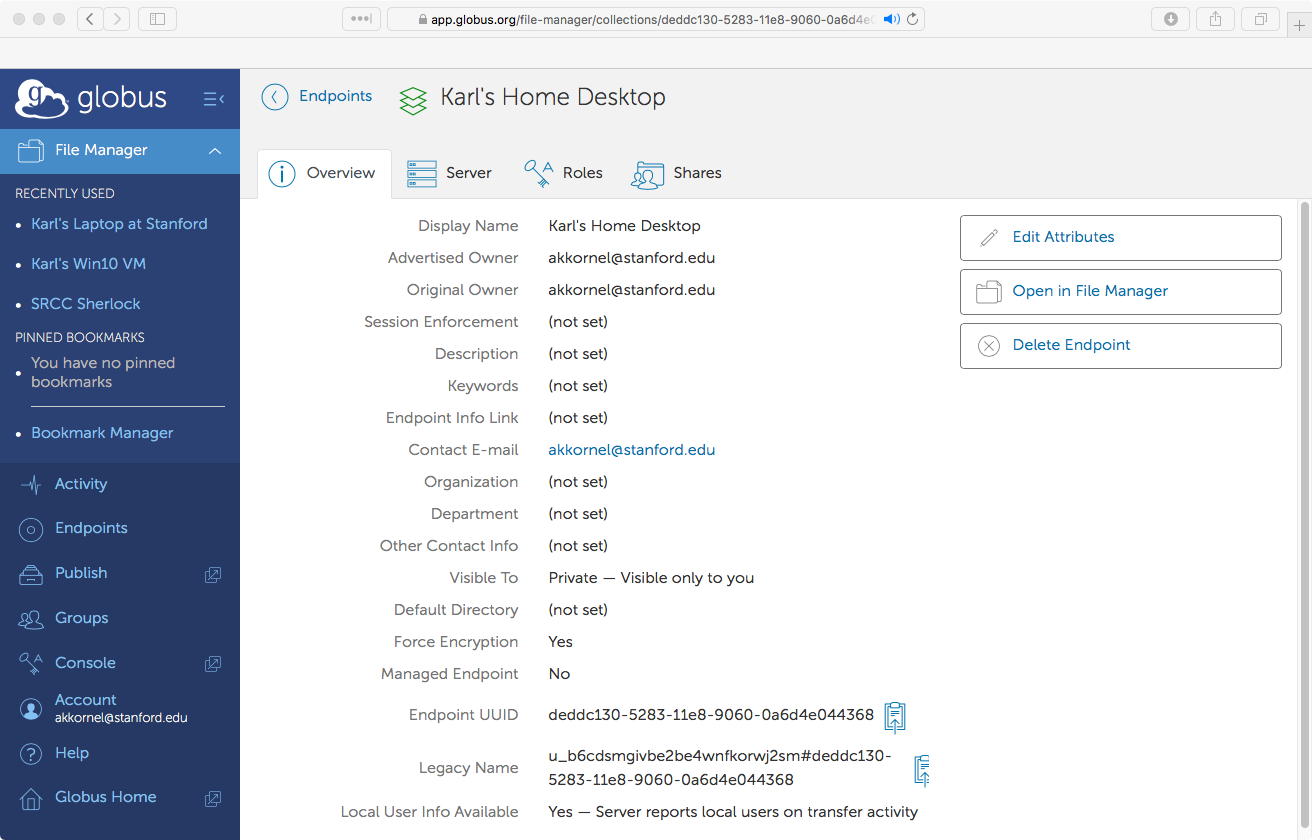
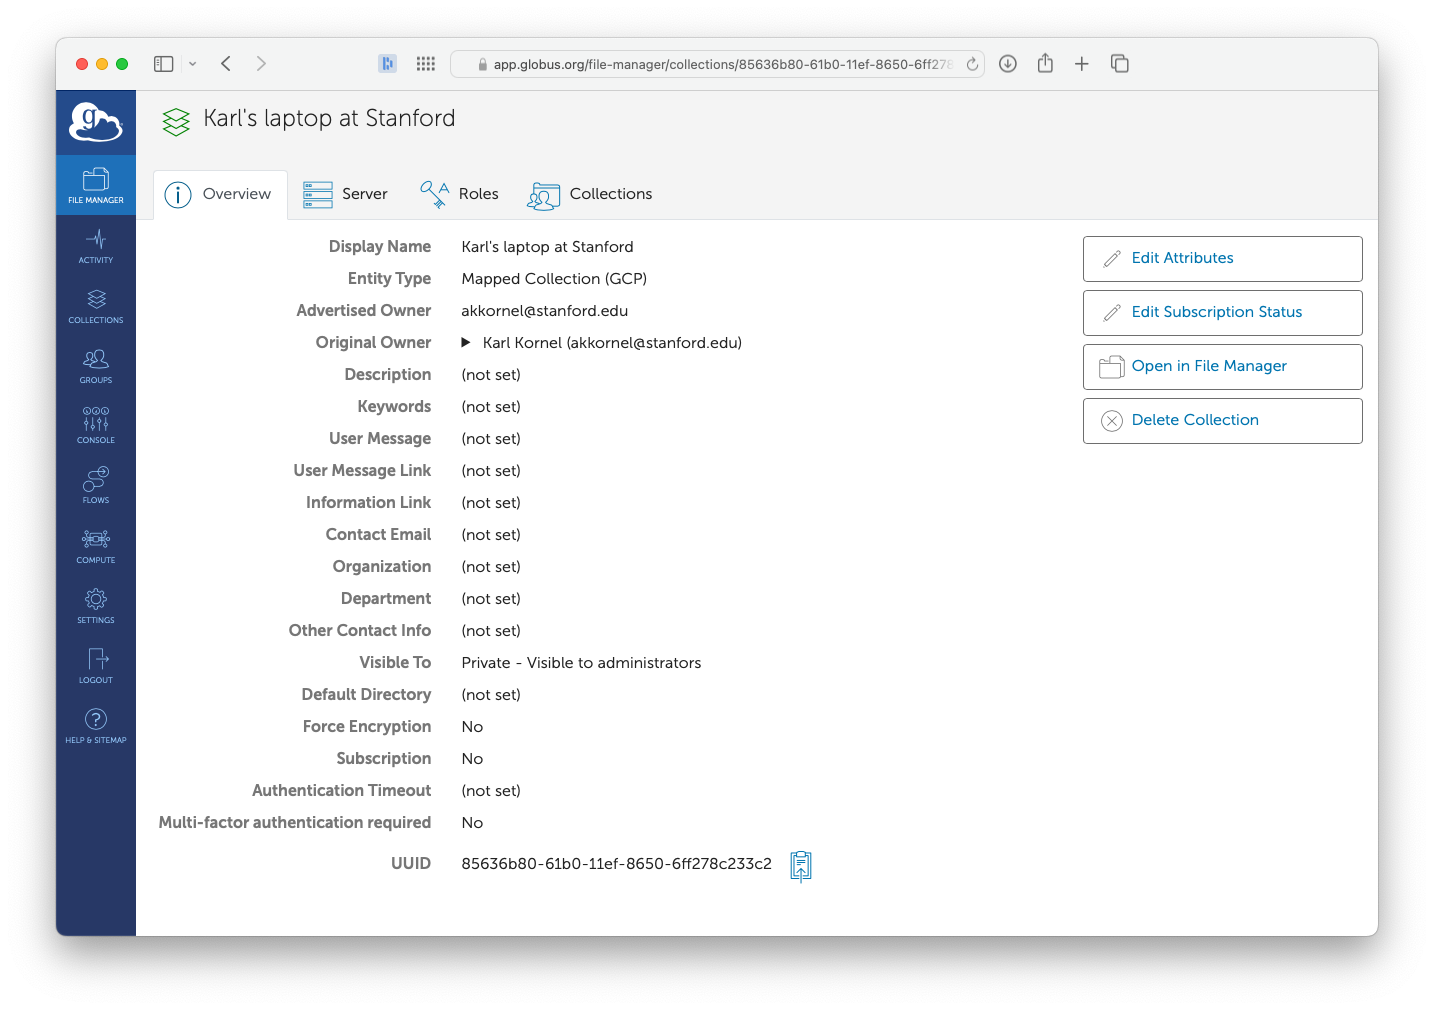
Client: New images for Globus Plus
The process for Globus Plus has had a number of small changes.  For
example, the Globus Group name has changed, and the Globus web app UI
looks different.  This updates the images, and also updates the content
accordingly.

diff --git a/client/plus.md b/client/plus.md
@@ -10,20 +10,27 @@ see-also: true
 
 If you would like to give other people access to content that is only
 accessible with Globus Connect Personal (for example, because that content
-lives on your laptop or desktop), you will need to create a _Shared endpoint_.
-In order to create a shared endpoint with Globus Connect Personal, you will
+lives on your laptop or desktop), you will need to create a _Guest Collection_.
+In order to create a Guest Collection with Globus Connect Personal, you will
 need access to a feature called _Globus Plus_.  This page explains how to
 configure Globus Plus and start sharing.
 
 {% include info-box.html
    header="Full (and full-sponsored) accounts only"
    icon="university"
-   content="Globus Plus is only available to people who have a full-service (or full-sponsored) account.  Essentially, if you have a Stanford email address, then you can use Globus Plus!"
+   content="Globus Plus is only available to people who have a full-service (or full-sponsored) account.  If you have Stanford email, then you can use Globus Plus!"
 %}
 
 {% include info-box.html
+   icon="exclamation-circle"
+   header="Stanford endpoints only"
+   content="When you create a new Globus Connect Personal endpoint, you attach it to a Globus identity.  Globus Plus will only work for Personal endpoints attached to a Stanford identity (identities ending in `@stanford.edu`)."
+%}
+
+{% include info-box.html
+   icon="question-circle"
    header="You might not need Globus Plus"
-   content="You only need Globus Plus if you want to give other people access to some of the files on your computer.  If you want to share content on a server (running Globus Connect Server), Globus Plus is not needed, because it only works with Globus Connect Personal."
+   content="You only need Globus Plus if you want to give other people access to some of the files on your computer.  If you want to share content on a server (running Globus Connect Server), Globus Plus is not needed."
 %}
 
 {% include info-box.html
@@ -36,21 +43,24 @@ The first step is to ask that Globus Plus be enabled on your account.
 
 ## Enable Globus Plus
 
-Globus Plus is a feature that has to be enabled on a user's account.  It is
-enabled by adding you to a special group in the Globus infrastructure.
+The ability to make Globus Connect Personal Guest Collections (a feature known
+originally as "Globus Plus") is granted by giving you access to premium Globus
+features.  This is implemented by adding you to a Globus Group.
 
 You only need to do this once, even if you have multiple Globus Connect
-Personal endpoints.
+Personal endpoints attached to your Stanford Identity.
 
-To get Globus Plus enabled on your account, email [srcc-support@stanford.edu](mailto:srcc-support@stanford.edu?subject=Please Enable Globus Plus&body=Hello!  My SUNetID is X.  Please add me to the Stanford Globus Plus Group, so that I can use Globus Connect Personal to share Low- and Moderate-Risk files that I have on my endpoint.).
-Provide your SUNetID, and say that you would like to be added to the Stanford
-Globus Plus group.  You should receive a response within two business days.
+To get access to our Globus subscription, email [srcc-support@stanford.edu](mailto:srcc-support@stanford.edu?subject=Please Enable Globus Plus&body=Hello!  My SUNetID is X.  Please give me access to Globus Plus through Stanford, so that I can use Globus Connect Personal to share Low- and Moderate-Risk files that I have on my endpoint.).
+Send the email from your Stanford email.  In the email, provide your SUNetID,
+and say that you would like access to Globus Plus through Stanford.  You should
+receive a response within two business days.
 
-When SRCC Support processes your request, you will receive an invitation to
-join the _Stanford University Globus Plus Group_.
+When Research Computing Support processes your request, you will receive an
+invitation to join the _Stanford_ Globus Group as a member.  Click on the link
+that says "Click here to apply for membership."
 
 {% include hero-image.html
-   src="/assets/client/GlobusPlusGroupJoinEmail.png"
+   src="/assets/client/GlobusPlusGroupJoinEmail.jpg"
    alt="Part of an email from Globus, inviting the recipient to join the 'Stanford University Globus Plus Group'"
    caption-overlay=true
    caption-header=""
@@ -58,37 +68,46 @@ join the _Stanford University Globus Plus Group_.
 %}
 
 Accepting the invitation will send you to the Globus web site (be sure to log
-in with your Stanford credentials), where you will be be asked to confirm your
+in through _Stanford University_), where you will be be asked to confirm your
 information and read & agree to terms.
 
 {% include hero-image.html
-   src="/assets/client/GlobusPlusGroupJoinConfirmation.png"
-   alt="The Globus web site, showing the Groups page, and displaying a screen asking the user to confirm that they want to join a group."
+   src="/assets/client/GlobusPlusGroupJoinRequest.png"
+   alt="The Globus web site, showing the Groups page, and displaying a screen asking the user to confirm that they want to join a group.  This involves filling in name & organization, and agreeing to terms"
    caption-overlay=true
-   caption-header="Create Globus Connect Personal Endpoint"
+   caption-header="Agreeing to terms of subscription access"
    caption-text=""
 %}
 
-Once you have accepted, you will be added to the group!  Your account should
-then be enabled for Globus Plus.  Remember, you _must accept the invitation in
+Once you accept the invitation, you will receive a confirmation that your
+membership is active.
+
+{% include hero-image.html
+   src="/assets/client/GlobusPlusGroupJoinConfirmation.png"
+   alt="The Globus web site, confirming that the user is an active member in the 'Stanford' group."
+   caption-overlay=true
+   caption-header="Confirming group membership—and subscription access—has been
+   processed"
+   caption-text=""
+%}
+
+Globus Plus will be active on your account as soon as you accept the
+invitation.  Remember, you _must accept the invitation in
 order to be added to the group_, and _your Globus Plus access will not start
 working until you join the group_!
 
-You can confirm that Globus Plus is enabled by going to your [Globus account
-page](https://www.globus.org/app/account).
+You can confirm that Globus Plus is enabled by going to the [Globus File
+Manager](https://app.globus.org/), clicking on the *Settings* button (located
+on the left-side vertical bar, near the bottom), and clicking on the
+*Subscription* tab.
 
 {% include hero-image.html
    src="/assets/client/GlobusAccountwithPlus.png"
-   alt="The 'Globus Account' page, showing that Globus Plus is active."
+   alt="The 'Globus Account' page, showing access to Stanford's subscription."
    caption-overlay=false
    caption-header="This person has access to Globus Plus."
-   caption-text="If the person was affiliated with multiple institutions, then she might have had access to Globus Plus through multiple affiliations.  In this case, only one is active (the other was used for a training session, and has been disabled)."
+   caption-text="If the person was affiliated with multiple institutions, then she might have had access to multiple Globus Subscriptions."
 %}
-
-Remember, you only need Globus Plus enabled once.  Even if you have multiple
-Globus Connect Personal endpoints, as soon as Globus Plus is enabled on your
-account, it will start working for all current (and future) Globus Connect
-Personal endpoints.
 
 You now need to go to your endpoint, to decide what you want to share.
 
@@ -156,11 +175,11 @@ You are now ready to start sharing from your endpoint!
 
 To begin sharing content from your Globus Connect Personal endpoint, follow the
 guide [How To Share Data Using
-Globus](https://docs.globus.org/how-to/share-files/), part of Globus's [How
-To](https://docs.globus.org/how-to/) series.  Globus' guide will step you
-through the process of creating a Shared Endpoint, which gives other people
-access to a limited set of directories on your Globus Connect Personal
-endpoint.
+Globus](https://docs.globus.org/guides/tutorials/manage-files/share-files/),
+part of Globus's [Guides](https://docs.globus.org/guides/) series.  Globus'
+guide will step you through the process of creating a Guest Collection, which
+gives other people access to a limited set of directories on your Globus
+Connect Personal endpoint's Managed Collection.
 
 That's it!  You should now be sharing part of your endpoint with others.
 
@@ -175,7 +194,3 @@ That's it!  You should now be sharing part of your endpoint with others.
    header="Don't Fall Asleep"
    content="Your Shared Endpoint will only work when Globus Connect Personal is running, and your laptop or desktop is awake and connected to a network.  If your endpoint does fall asleep, any in-progress transfers will automatically resume once it wakes up."
 %}
-
-
-
-
